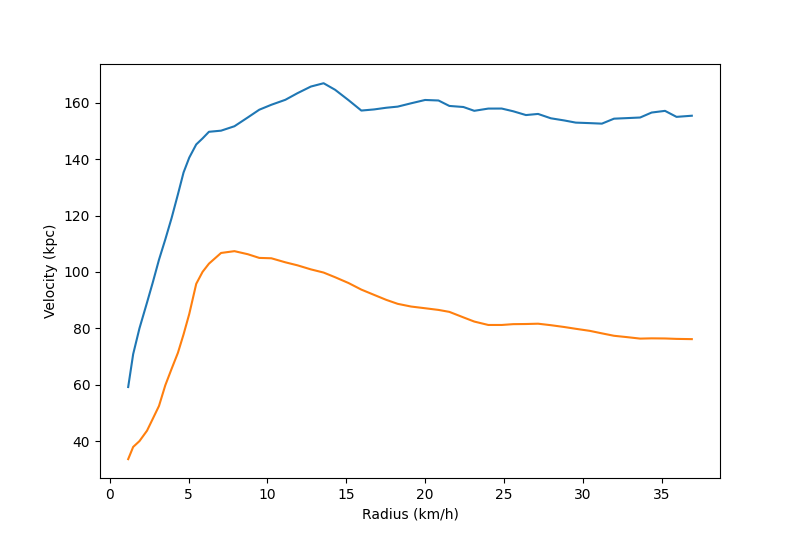
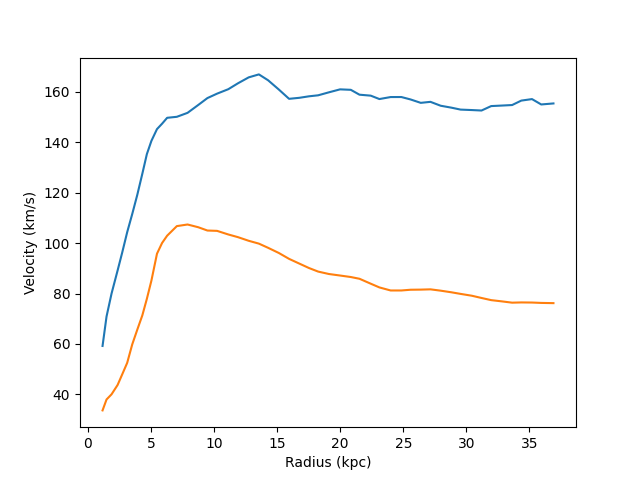
graph axis titles

diff --git a/main.py b/main.py
@@ -24,6 +24,6 @@ y=np.array(Velocity)
 z=np.array(predictV)
 plt.plot(x,y)
 plt.plot(x,z)
-plt.xlabel('Radius (km/h)')
-plt.ylabel('Velocity (kpc)')
+plt.xlabel('Radius (kpc)')
+plt.ylabel('Velocity (km/s)')
 plt.show()
